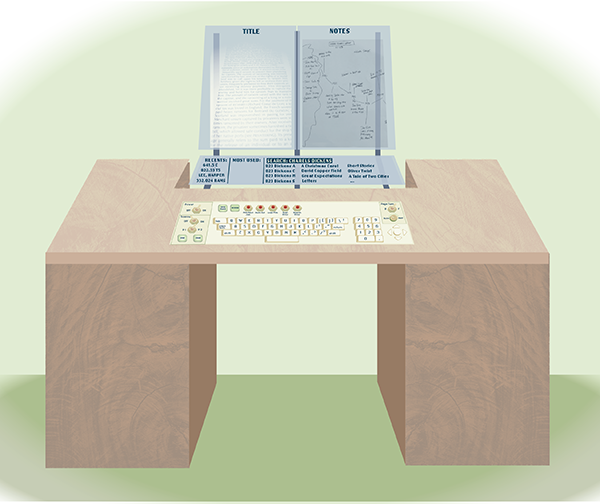
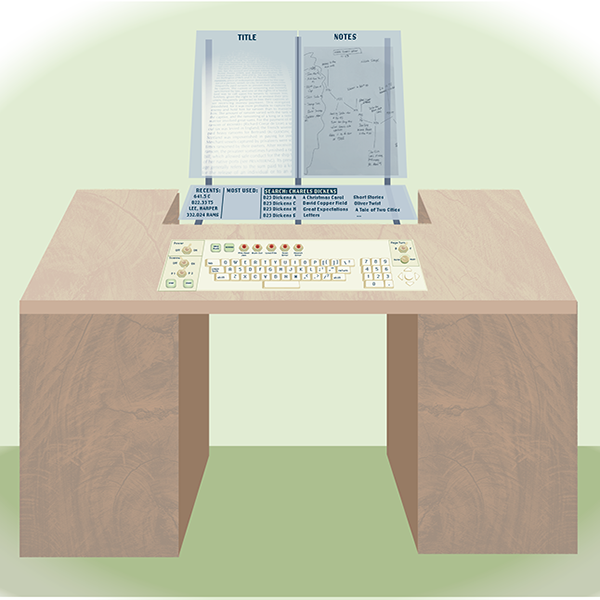
image fix

diff --git a/index.html b/index.html
@@ -70,7 +70,7 @@
 					</div>
 				</div>
 				<div class="width-6-12-m width-4-12 thumb">
-					<img class="r-image" src="images/prototype.png" title="Prototype Illustration" />
+					<img class="r-image" src="images/prototype2.png" title="Prototype Illustration" />
 					<div class="body">
 						<h1>Project 1:  Memex Prototype Illustration</h1>
 						<p>The memex has never been built, but many have created prototype illustrations that may or may not look something like this. The most important features are the veiwing panels and keyboard which can be viewed in detail in the PDF linked below.  
